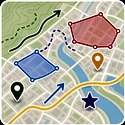
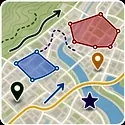
compress

diff --git a/src/urbanlens/dashboard/templates/dashboard/partials/map/_layers_panel.html b/src/urbanlens/dashboard/templates/dashboard/partials/map/_layers_panel.html
@@ -25,7 +25,7 @@ variant="strip": compact icon row for dialogs (comment map composer/viewer).
             aria-label="Toggle map layers"
             aria-expanded="false">
         <span class="map-layer-thumb map-layers-toggle-thumb">
-            <img src="{% static 'dashboard/images/map_layers.jpg' %}" alt="" loading="lazy">
+            <img src="{% static 'dashboard/images/map_layers.webp' %}" alt="" loading="lazy">
         </span>
         <i class="material-icons map-layers-toggle-icon">layers</i>
         <span class="map-layers-label">Layers</span>

diff --git a/src/urbanlens/dashboard/templatetags/map_components.py b/src/urbanlens/dashboard/templatetags/map_components.py
@@ -99,7 +99,7 @@ register_map_layer(
         aria_label="Street Map",
         tooltip="Street map",
         icon="map",
-        thumb="dashboard/images/map_layer_street.jpg",
+        thumb="dashboard/images/map_layer_street.webp",
         thumb_alt="Street Layer",
         button_id="street-button",
     )
@@ -112,7 +112,7 @@ register_map_layer(
         aria_label="Topography Map",
         tooltip="Terrain map (T)",
         icon="terrain",
-        thumb="dashboard/images/map_layer_topography.jpg",
+        thumb="dashboard/images/map_layer_topography.webp",
         thumb_alt="Terrain Layer",
         button_id="topography-button",
     )
@@ -125,7 +125,7 @@ register_map_layer(
         aria_label="Satellite Map",
         tooltip="Satellite map (S)",
         icon="globe",
-        thumb="dashboard/images/map_layer_satellite.jpg",
+        thumb="dashboard/images/map_layer_satellite.webp",
         thumb_alt="Satellite Imagery Layer",
         button_id="satellite-button",
     )
@@ -138,7 +138,7 @@ register_map_layer(
         aria_label="Weather overlay",
         tooltip="Weather overlay (W)",
         icon="rainy",
-        thumb="dashboard/images/map_layer_weather.jpg",
+        thumb="dashboard/images/map_layer_weather.webp",
         thumb_alt="Weather Layer",
         button_id="weather-button",
     )
@@ -151,7 +151,7 @@ register_map_layer(
         aria_label="Show or hide pins",
         tooltip="Show or hide pins (P)",
         icon="location_on",
-        thumb="dashboard/images/map_layer_pins.jpg",
+        thumb="dashboard/images/map_layer_pins.webp",
         thumb_alt="Pins Layer",
         button_id="toggle-pins-button",
     )
@@ -164,7 +164,7 @@ register_map_layer(
         aria_label="Show or hide child pins",
         tooltip="Show pins nested inside other pins",
         icon="subdirectory_arrow_right",
-        thumb="dashboard/images/map_layer_child_pins.jpg",
+        thumb="dashboard/images/map_layer_child_pins.webp",
         thumb_alt="Child Pins Layer",
         button_id="child-pins-button",
     )
@@ -177,7 +177,7 @@ register_map_layer(
         aria_label="Toggle Dark Mode",
         tooltip="Dark mode (D)",
         icon="dark_mode",
-        thumb="dashboard/images/map_layer_dark.jpg",
+        thumb="dashboard/images/map_layer_dark.webp",
         thumb_alt="Dark Mode",
         button_id="dark-mode-button",
     )
@@ -190,7 +190,7 @@ register_map_layer(
         aria_label="Toggle Geopolitical boundaries",
         tooltip="Borders layer (B)",
         icon="public",
-        thumb="dashboard/images/map_layer_borders.jpg",
+        thumb="dashboard/images/map_layer_borders.webp",
         thumb_alt="Borders Layer",
         button_id="boundaries-button",
     )
@@ -203,7 +203,7 @@ register_map_layer(
         aria_label="Toggle Places layer",
         tooltip="Places layer",
         icon="travel_explore",
-        thumb="dashboard/images/map_layer_places.jpg",
+        thumb="dashboard/images/map_layer_places.webp",
         thumb_alt="Places Layer",
         button_id="places-button",
     )
@@ -216,6 +216,7 @@ register_map_layer(
         aria_label="Toggle waterways and railways, including historic routes",
         tooltip="Active and historic waterways, railways, canals, and rail trails",
         icon="conversion_path",
+        thumb="dashboard/images/map_layer_water_rail.webp",
         thumb_alt="Waterways and Railways Layer",
         button_id="infrastructure-button",
     )
@@ -254,7 +255,7 @@ register_map_layer(
         aria_label="Show or hide the user's other nearby pins",
         tooltip="Show your other pins near this location",
         icon="share_location",
-        thumb="dashboard/images/map_layer_nearby_pins.jpg",
+        thumb="dashboard/images/map_layer_nearby_pins.webp",
         thumb_alt="Nearby Pins Layer",
         button_id="nearby-pins-button",
     )
@@ -267,7 +268,7 @@ register_map_layer(
         aria_label="Show or hide past activities",
         tooltip="Show completed/past activities on the map",
         icon="history",
-        thumb="dashboard/images/map_layer_previous_pins.jpg",
+        thumb="dashboard/images/map_layer_previous_pins.webp",
         thumb_alt="Previous Pins Layer",
         button_id="past-activities-button",
     )
